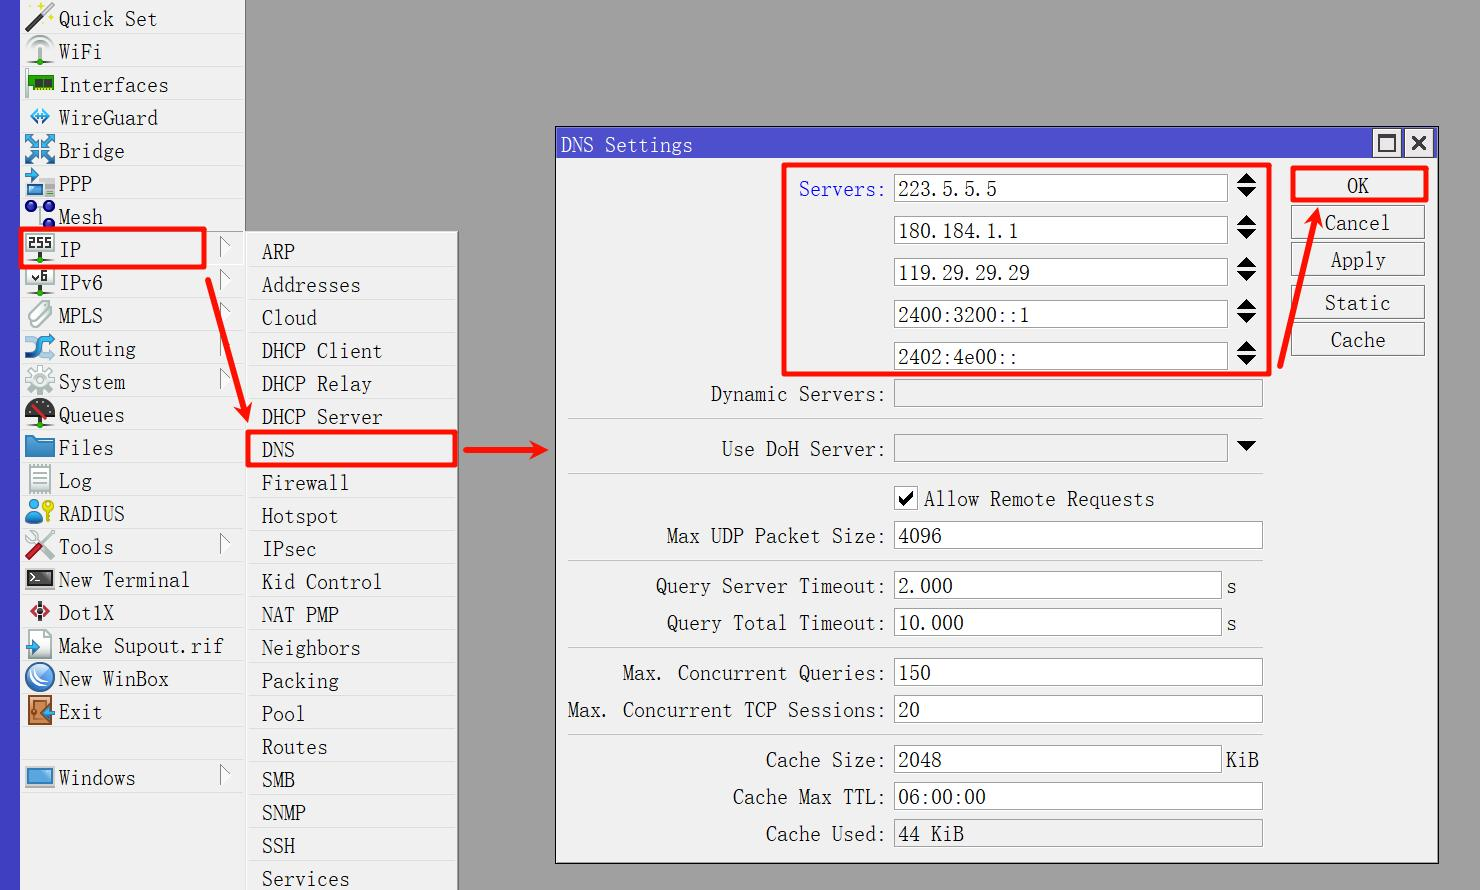
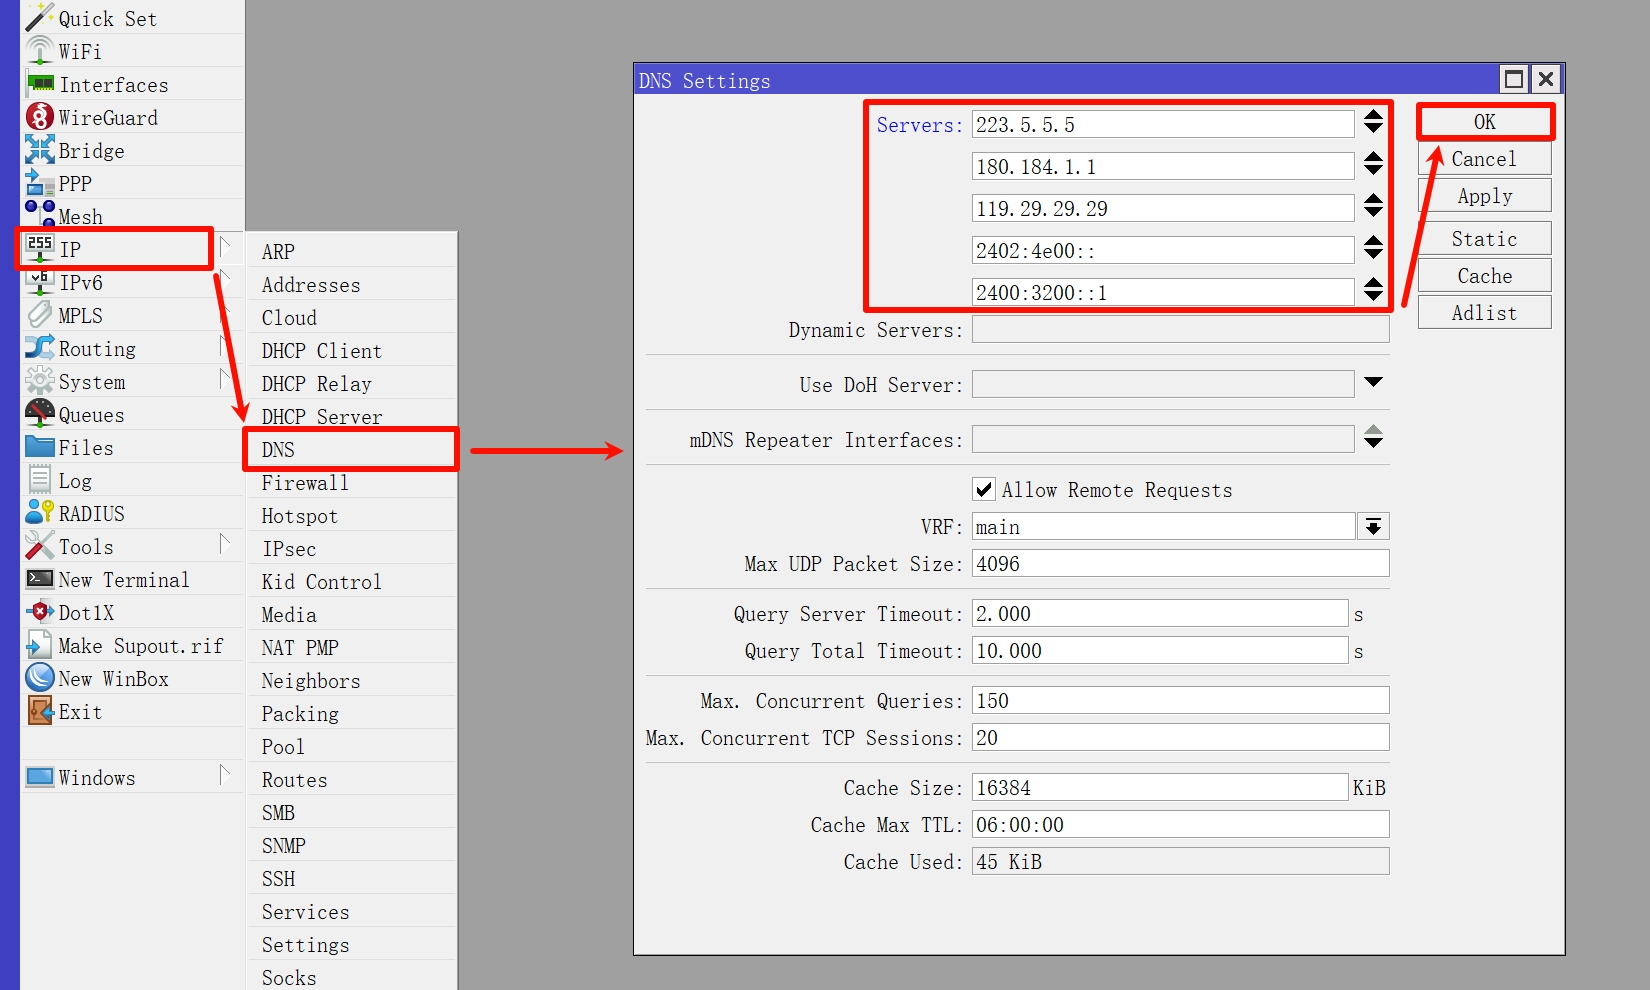
更新 DNS 设置

Changed region(s): [[0.0, 0.0, 0.9946, 1.0], [0.0, 0.8494, 0.0932, 0.9101]]

diff --git a/03.设置DNS.md b/03.设置DNS.md
@@ -2,7 +2,7 @@
 
 在上一篇文章 [02.设置网络接口](./02.设置网络接口.md) 中，已经设置了各网络接口，现在开始设置系统 DNS 。  
 
-## 1.1.使用公共 DNS 服务器
+### 1.1.使用公共 DNS 服务器
 
 使用 Winbox 登录 RouterOS ，点击左侧导航 `IP` 菜单的子菜单 `DNS` ，并修改参数。  
 
@@ -20,7 +20,7 @@
 
 ![调整RouterOS系统DNS参数](img/p03/modify_system_dns.jpeg)
 
-## 1.2.使用内网 DNS 服务器
+### 1.2.使用内网 DNS 服务器
 
 在根据我的系列文章 [Adguard Home 折腾手记](https://gitee.com/callmer/adh_toss_notes) 安装并配置了内网 DNS 服务器后，需要调整 RouterOS 的 DNS 配置。  
 
@@ -28,7 +28,95 @@
 
 ![修改RouterOS系统DNS](img/p03/system_dns_modify.jpeg)
 
-## 1.3.设置 DNS 黑洞
+### 1.3.使用 DoH 服务器
+
+RouterOS 中的 DNS over HTTPS (DoH) 功能有效提升了 DNS 查询的安全性，不仅增强了隐私保护，还有效防止了 DNS 劫持和篡改。  
+
+根据官方文档有关 [DNS](https://help.mikrotik.com/docs/display/ROS/DNS) 的介绍：  
+
+> Currently, DoH is not compatible with FWD-type static entries, in order to utilize FWD entries, DoH must not be configured.  
+
+> It is strongly recommended to import the root CA certificate of the DoH server you have chosen to use for increased security. We strongly suggest not using third-party download links for certificate fetching. Use the Certificate Authority's own website.  
+
+> If DoH server is being used (DoH DNS name can be resolved) then it will be the only DNS service working at the time and standard DNS servers from IP/DNS servers list will not be used.  
+
+> Note that you need at least one regular DNS server configured for the router to resolve the DoH hostname itself. If you do not have any dynamical or static DNS server configured, add a static DNS entry for the DoH server domain name.  
+
+因此，正确使用 DoH 的相关条件总结如下：
+
+- 若需使用 DNS 中 `FWD` 类型的 DNS 记录，则不能使用 DoH 功能。  
+
+- 当 DoH 为开启状态，日常解析时，传统 DNS 将不再被使用。  
+
+- 若 DoH 服务器地址为域名，则需至少保留一个传统 DNS 条目，或使用静态 DNS 条目对 DoH 域名的 IP 地址进行设置。  
+
+- 强烈建议开启 DoH 的证书校验功能 `verify-doh-cert` ，但前提是 RouterOS 已经下载了相关根证书。  
+
+使用以下命令手动下载 RouterOS 所需的根证书，并根据 [07.设置定时任务](./07.设置定时任务.md) 中相关内容设置 RouterOS 证书自动更新。  
+
+**注意：下载证书时要求 RouterOS 联网且能正确解析域名，证书下载可能较为缓慢，执行命令过程中需耐心等待。**  
+
+```bash
+/tool
+fetch url=https://letsencrypt.org/certs/isrgrootx1.pem check-certificate=no dst-path=isrgrootx1_unsafe ## Waiting
+
+/certificate
+import name=isrgrootx1_unsafe passphrase="" file-name=isrgrootx1_unsafe
+
+/tool
+fetch url=https://letsencrypt.org/certs/isrgrootx1.pem check-certificate=yes dst-path=isrgrootx1_safe ## Waiting
+
+/certificate
+remove [ find where name ~ "isrg*" ]
+import name=isrgrootx1_safe passphrase="" file-name=isrgrootx1_safe
+
+/tool
+fetch url=https://mkcert.org/generate/all/except/nothing check-certificate=yes dst-path=mkcert ## Waiting
+
+/certificate
+import name=mkcert passphrase="" file-name=mkcert
+```
+
+根证书下载并导入完成后，即可添加 DoH 服务器。  
+
+![设置RouterOS系统DoH](img/p03/system_doh_modify.jpeg)
+
+目前国内常用的 DoH 服务器如下：
+
+```bash
+## 阿里云公共DNS
+https://dns.alidns.com/dns-query
+
+## DNSPod Public DNS
+https://doh.pub/dns-query
+```
+
+### 1.4.使用 Adlist 广告列表
+
+RouterOS 支持 `Domain` 格式的广告屏蔽列表，该列表将加载至 DNS Cache 中，对于命中列表的 DNS 请求将返回 `0.0.0.0` 解析结果。  
+
+建议开启 Adlist 的证书校验功能 `ssl-verify` ，该功能与 DoH 一样需要 RouterOS 已经下载了相关根证书。  
+
+根据实际测试，Adlist 对 Cache 容量有较高的要求，因此建议 RouterOS 的 DNS Cache 不小于 `16MiB` 。  
+
+点击 `DNS` 设置中的 `Adlist` ，进入广告列表配置界面，在 `URL` 处填入广告列表的链接地址。  
+
+![设置RouterOS系统Adlist](img/p03/system_adlist_modify.jpeg)
+
+目前常用的 Adlist 列表如下：
+
+```bash
+## Anti-AD
+https://anti-ad.net/domains.txt
+
+## Neodevhost
+https://neodev.team/lite_domain
+
+## StevenBlack
+https://raw.githubusercontent.com/StevenBlack/hosts/master/hosts
+```
+
+### 1.5.设置 DNS 黑洞
 
 DNS 黑洞是一组静态解析地址，基于 [RFC6303 - Locally Served DNS Zones](https://www.rfc-editor.org/rfc/rfc6303) 和 [RFC6761 - Special-Use Domain Names](https://www.rfc-editor.org/rfc/rfc6761.html) 创建。  
 

diff --git a/08.设置IPv6.md b/08.设置IPv6.md
@@ -200,9 +200,9 @@
 
 在 `Servers` 处增加国内知名的 DNS 服务提供商的 IPv6 地址。  
 
-- 腾讯云 DNSPod 的 IPv6 地址为：`2402:4e00::` 和 `2402:4e00:1::`  
-
 - 阿里云 AliDNS 的 IPv6 地址为：`2400:3200::1` 和 `2400:3200:baba::1`  
+
+- 腾讯云 DNSPod 的 IPv6 地址为：`2402:4e00::` 和 `2402:4e00:1::`  
 
 ![设置RouterOS的上游DNS](img/p08/wb_system_dns.jpeg)
 
